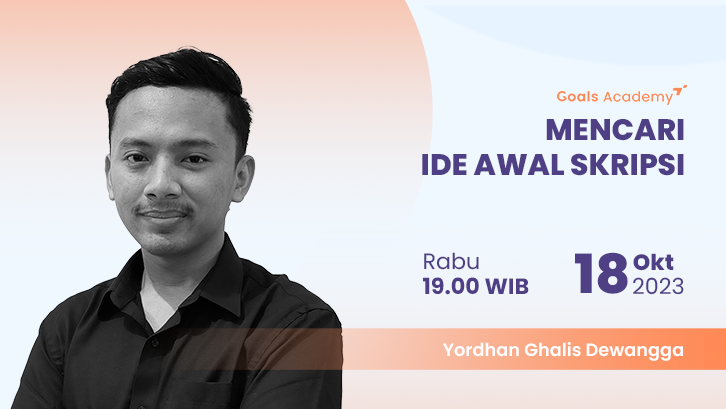
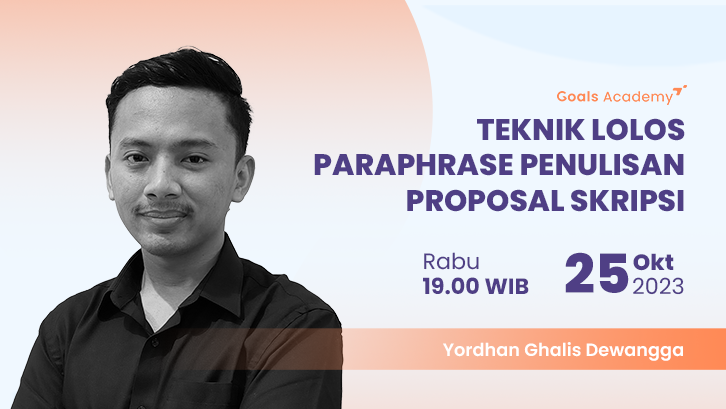
Update Produk Page for Publish

Changed region(s): [[0.4242, 0.2934, 0.9394, 0.5281], [0.7576, 0.6161, 0.8788, 0.7335]]

diff --git a/resources/js/Pages/Main/Produk.jsx b/resources/js/Pages/Main/Produk.jsx
@@ -1,6 +1,7 @@
 import { useState } from "react";
 import MainLayout from "@/Layouts/MainLayout";
 import Filter from "../Partials/Produk/Filter";
+import SearchBar from "../Partials/Produk/SearchBar";
 import Bimbingan from "../Partials/Produk/Bimbingan";
 import Ebook from "../Partials/Produk/Ebook";
 import Webinar from "../Partials/Produk/Webinar";
@@ -20,7 +21,7 @@ import ebook3 from "/resources/img/ebook/3.png";
 import webinar1 from "/resources/img/webinar/1.png";
 import webinar2 from "/resources/img/webinar/2.png";
 import webinar3 from "/resources/img/webinar/3.png";
-import SearchBar from "../Partials/Produk/SearchBar";
+import webinar4 from "/resources/img/webinar/4.png";
 
 export default function Produk({ auth }) {
     const dataBimbingan = [
@@ -135,12 +136,12 @@ export default function Produk({ auth }) {
     ];
 
     const dataEbook = [
-        // {
-        //     title: "How To Survive Your Thesis? Start with Theme",
-        //     price: 40000,
-        //     image: ebook1,
-        //     link: "https://lynk.id/goalsacademy/XBmqq6J",
-        // },
+        {
+            title: "How To Survive Your Thesis? Start with Theme",
+            price: '-',
+            image: ebook1,
+            link: "https://lynk.id/goalsacademy/XBmqq6J",
+        },
         // {
         //     title: "Proposal Biar Diterima",
         //     price: 40000,
@@ -157,31 +158,31 @@ export default function Produk({ auth }) {
 
     const dataWebinar = [
         {
-            title: "Mencari Ide Awal Skripsi",
-            price: 34000,
-            image: webinar1,
-            date: "2023-10-18 19:00:00",
-            link: "https://lynk.id/goalsacademy/oZyPAav",
-        },
-        {
-            title: "Teknik Cepat Mencari Referensi & Parafrase",
+            title: "Tips Membuat Judul Skripsi Mudah ACC",
             price: 34000,
             image: webinar2,
             date: "2023-10-24 19:00:00",
+            link: "https://lynk.id/goalsacademy/oZyPAav",
+        },
+        {
+            title: "Teknik Lolos Paraphrase Penulisan Proposal Skripsi",
+            price: 34000,
+            image: webinar1,
+            date: "2023-10-25 19:00:00",
             link: "https://lynk.id/goalsacademy/a2j9vM8",
         },
         {
-            title: "Strategi Sukses Presentasi",
+            title: "Tips & Trick Presentasi Sidang Skripsi yang Disukai Dosen",
             price: 34000,
             image: webinar3,
             date: "2023-10-26 19:00:00",
             link: "https://lynk.id/goalsacademy/lmzQOyX",
         },
         {
-            title: "Bundling Webinar Series",
+            title: "Bundling Webinar Series Goals Academy",
             price: 94000,
-            image: webinar3,
-            date: "2023-10-26 19:00:00",
+            image: webinar4,
+            date: "2023-10-24 19:00:00",
             link: "https://lynk.id/goalsacademy/nGV0BrP",
         },
     ];
@@ -211,7 +212,10 @@ export default function Produk({ auth }) {
             .filter((item) => item.title.toLowerCase().includes(keyword));
         setData1(temp1);
         setData2(temp2);
-        setData3(temp3);
+        setData3([]);
+        setTimeout(() => {
+            setData3(temp3);
+        }, 0)
     };
 
     return (

diff --git a/resources/js/Pages/Purchase/Form.jsx b/resources/js/Pages/Purchase/Form.jsx
@@ -6,6 +6,9 @@ import { AdapterDayjs } from '@mui/x-date-pickers/AdapterDayjs';
 import { LocalizationProvider } from '@mui/x-date-pickers/LocalizationProvider';
 import { DatePicker, DesktopDatePicker, StaticDatePicker } from "@mui/x-date-pickers";
 import dayjs from "dayjs";
+import moment from "moment";
+import { TECollapse } from "tw-elements-react";
+import TECollapseItem from "@/Components/TECollapseItem";
 
 export default function Form({ auth }) {
     return (
@@ -21,11 +24,13 @@ export default function Form({ auth }) {
 }
 
 function FormModal ({ show, setShow }) {
+    const [showDatePicker, setShowDatePicker] = useState(false)
+    const [showPlaceOptions, setShowPlaceOptions] = useState(false)
     return (
         <>
             <div className={`${show ? '' : 'hidden'} fixed top-0 bottom-0 left-0 right-0 overflow-hidden bg-dark bg-opacity-50 transition-all duration-300 z-50`} onClick={() => setShow(false)}>
             </div>
-            <div className={`${show ? 'top-0 bottom-0 scale-100' : 'top-full -bottom-full scale-0'} fixed left-0 flex flex-col gap-4 w-[30vw] h-[24vw] transition-all duration-500 bg-white shadow-md rounded-xl p-6 z-50 ms-[35vw] mt-[10vw]`}>
+            <div className={`${show ? 'top-0 bottom-0 scale-100' : 'top-full -bottom-full scale-0'} fixed left-0 flex flex-col gap-4 w-[30vw] h-fit transition-all duration-500 bg-white shadow-md rounded-xl p-6 z-50 ms-[35vw] mt-[10vw]`}>
                 <div>
                     <div className="flex justify-between items-center mb-4">
                         <h5 className="text-secondary font-poppins font-bold">Pilih Jadwal Bimbingan</h5>
@@ -39,10 +44,15 @@ function FormModal ({ show, setShow }) {
                 </div>
                 <div>
                     <p className="font-medium mb-3">Pilih Lokasi Bimbingan :</p>
-                    <ExpandedButton className="shadow-centered-spread rounded-sm text-gray-400" borderClassName="border-0" icon="fa-solid fa-chevron-down">Pilih Lokasi</ExpandedButton>
+                    <ExpandedButton className="shadow-centered-spread rounded-sm text-gray-400" borderClassName="border-0" icon="fa-solid fa-chevron-down" onClick={() => setShowPlaceOptions(!showPlaceOptions)}>Pilih Lokasi</ExpandedButton>
+                    <TECollapse show={showPlaceOptions} className="w-[110%] -ms-[5%] px-[5%] shadow-none">
+                        <TECollapseItem>
+                            <ExpandedButton className="shadow-centered-spread rounded-sm text-gray-400" borderClassName="border-0" icon="fa-solid fa-chevron-down">Pilih Lokasi</ExpandedButton>
+                        </TECollapseItem>
+                    </TECollapse>
                 </div>
-                <div className="flex justify-end">
-                    <ButtonPill className="fixed bottom-6 w-3/12" isActive={false}>Simpan</ButtonPill>
+                <div className="flex justify-end mt-3">
+                    <ButtonPill className="w-3/12" isActive={false}>Simpan</ButtonPill>
                 </div>
             </div>
         </>

diff --git a/resources/js/Pages/Partials/Produk/Ebook.jsx b/resources/js/Pages/Partials/Produk/Ebook.jsx
@@ -58,7 +58,6 @@ function EbookMobile ({ data }) {
 
 function EbookCard ({ item, className }) {
     const currency = Intl.NumberFormat('id-ID')
-
     return (
         <div className={`shadow-centered rounded-3xl md:rounded-lg xl:rounded-3xl overflow-hidden ${className}`}>
             <div className="w-full h-[90vw] md:h-[27vw] overflow-hidden">
@@ -66,8 +65,9 @@ function EbookCard ({ item, className }) {
             </div>
             <div className="p-4 md:p-3 lg:p-4 2xl:p-6 3xl:p-8">
                 <p className="font-medium text-16 xs:text-20 md:text-10 lg:text-14 xl:text-16 2xl:text-20 3xl:text-24 h-12 xs:h-16 md:h-7 lg:h-8 2xl:h-12 3xl:h-16">{item.title}</p>
-                <p className="font-bold font-poppins text-primary text-20 xs:text-24 md:text-14 lg:text-18 xl:text-24 2xl:text-28 3xl:text-32 my-4 md:my-3 lg:my-4 xl:my-6">IDR {currency.format(item.price)}</p>
-                <ButtonPill href={item.link} className="w-full">Beli Sekarang</ButtonPill>
+                <p className="font-bold font-poppins text-primary text-20 xs:text-24 md:text-14 lg:text-18 xl:text-24 2xl:text-28 3xl:text-32 my-4 md:my-3 lg:my-4 xl:my-6">IDR {item.price != '-' ? currency.format(item.price) : '-'}</p>
+                {/* <ButtonPill href={item.link} className="w-full">Beli Sekarang</ButtonPill> */}
+                <ButtonPill href={item.link} isLink={false} isActive={false} className="w-full">Coming Soon</ButtonPill>
             </div>
         </div>
     )

diff --git a/resources/js/Components/ButtonPill.jsx b/resources/js/Components/ButtonPill.jsx
@@ -1,14 +1,15 @@
 import { Link } from "@inertiajs/react";
 
-export default function ButtonPill({ href, children, target="_blank", className, isLink=false, isActive=true }) {
+export default function ButtonPill({ href, children, target="_blank", onClick, className, isLink=false, isActive=true }) {
+    href = isActive ? href : null
     if (isLink) {
         return (
             <Link
-                role="button"
                 href={href}
                 target={target}
                 className={`inline-block font-medium text-center py-2 md:py-1 xl:py-2 text-white rounded-full ${isActive ? 'bg-secondary hover:bg-primary' : 'bg-light-grey'} ${className}`}
                 disabled={!isActive}
+                onClick={onClick}
             >
                 {children}
             </Link>
@@ -16,11 +17,11 @@ export default function ButtonPill({ href, children, target="_blank", className,
     } else {
         return (
             <a
-                role="button"
                 href={href}
                 target={target}
                 className={`inline-block font-medium text-center py-2 md:py-1 xl:py-2 text-white rounded-full ${isActive ? 'bg-secondary hover:bg-primary' : 'bg-light-grey'} ${className}`}
                 disabled={!isActive}
+                onClick={onClick}
             >
                 {children}
             </a>

diff --git a/routes/web.php b/routes/web.php
@@ -28,13 +28,13 @@ Route::get('/produk', function () {
     return Inertia::render('Main/Produk');
 });
 
-Route::get('/artikel', function () {
-    return Inertia::render('Main/Artikel');
-});
+// Route::get('/artikel', function () {
+//     return Inertia::render('Main/Artikel');
+// });
 
-Route::get('/diskusi', function () {
-    return Inertia::render('Main/Diskusi');
-});
+// Route::get('/diskusi', function () {
+//     return Inertia::render('Main/Diskusi');
+// });
 
 Route::get('/karir', function () {
     return Inertia::render('Main/Karir');
